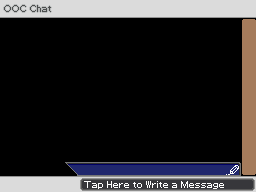
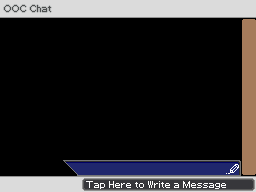
quality of life changes to corner button sprites

Changed region(s): [[0.25, 0.8125, 0.9375, 0.9062], [0.3125, 0.9062, 0.875, 1.0]]

diff --git a/arm9/source/ui/court/mute.cpp b/arm9/source/ui/court/mute.cpp
@@ -20,10 +20,10 @@ struct charMuteBtnData
 
 UICourtMute::~UICourtMute()
 {
-	delete btn_pageLeft;
-	delete btn_pageRight;
 	delete btn_back;
 	delete btn_muteToggle;
+	delete btn_pageLeft;
+	delete btn_pageRight;
 	delete lbl_charname;
 	delete lbl_pages;
 	delete sel_btn;
@@ -43,10 +43,10 @@ void UICourtMute::init()
 	bgIndex = bgInitSub(0, BgType_Text8bpp, BgSize_T_256x256, 0, 1);
 	loadBg("/data/ao-nds/ui/bg_charSelect");
 
+	btn_back = new UIButton(&oamSub, "/data/ao-nds/ui/spr_back", btn_pageRight->nextOamInd(), 3, 1, SpriteSize_32x32, 0, 192-32, 80, 32, 32, 32, 2);
+	btn_muteToggle = new UIButton(&oamSub, "/data/ao-nds/ui/spr_muteToggle", btn_back->nextOamInd(), 3, 1, SpriteSize_32x32, 256-82, 192-32, 82, 32, 32, 32, 3);
 	btn_pageLeft = new UIButton(&oamSub, "/data/ao-nds/ui/spr_pageLeft_tall", 0, 1, 3, SpriteSize_16x32, 4, 55, 16, 95, 16, 32, 0);
 	btn_pageRight = new UIButton(&oamSub, "/data/ao-nds/ui/spr_pageRight_tall", btn_pageLeft->nextOamInd(), 1, 3, SpriteSize_16x32, 236, 55, 16, 95, 16, 32, 1);
-	btn_back = new UIButton(&oamSub, "/data/ao-nds/ui/spr_back", btn_pageRight->nextOamInd(), 3, 1, SpriteSize_32x32, 0, 192-30, 79, 30, 32, 32, 2);
-	btn_muteToggle = new UIButton(&oamSub, "/data/ao-nds/ui/spr_muteToggle", btn_back->nextOamInd(), 3, 1, SpriteSize_32x32, 256-79, 192-30, 79, 30, 32, 32, 3);
 
 	lbl_charname = new UILabel(&oamSub, btn_muteToggle->nextOamInd(), 6, 1, RGB15(31, 16, 0), 4, 0);
 	lbl_pages = new UILabel(&oamSub, lbl_charname->nextOamInd(), 1, 1, RGB15(13, 2, 0), 5, 0);
@@ -76,13 +76,13 @@ void UICourtMute::init()
 	btn_pageLeft->assignKey(KEY_LEFT);
 	btn_pageRight->assignKey(KEY_RIGHT);
 
+	btn_back->connect(onBackClicked, this);
+	btn_muteToggle->connect(onMuteToggled, this);
 	btn_pageLeft->setVisible(false);
 	btn_pageLeft->connect(onPrevPage, this, UIButton::PRESSED);
 	btn_pageRight->connect(onNextPage, this, UIButton::PRESSED);
 	btn_pageLeft->connect(onPageBtnRelease, this, UIButton::RELEASED);
 	btn_pageRight->connect(onPageBtnRelease, this, UIButton::RELEASED);
-	btn_back->connect(onBackClicked, this);
-	btn_muteToggle->connect(onMuteToggled, this);
 
 	updateFilter();
 	reloadPage();
@@ -131,10 +131,10 @@ void UICourtMute::updateInput()
 		return;
 	}
 
-	btn_pageLeft->updateInput();
-	btn_pageRight->updateInput();
 	btn_back->updateInput();
 	btn_muteToggle->updateInput();
+	btn_pageLeft->updateInput();
+	btn_pageRight->updateInput();
 	for (int i=0; i<8; i++) btn_chars[i]->updateInput();
 
 	if (keysDown() & KEY_TOUCH)
@@ -148,10 +148,10 @@ void UICourtMute::updateInput()
 
 			bgHide(bgIndex);
 
-			btn_pageLeft->setVisible(false);
-			btn_pageRight->setVisible(false);
 			btn_back->setVisible(false);
 			btn_muteToggle->setVisible(false);
+			btn_pageLeft->setVisible(false);
+			btn_pageRight->setVisible(false);
 			lbl_charname->setVisible(false);
 			lbl_pages->setVisible(false);
 			sel_btn->setVisible(false);

diff --git a/arm9/source/ui/uiserverlist.cpp b/arm9/source/ui/uiserverlist.cpp
@@ -119,12 +119,12 @@ void UIScreenServerList::init()
 	lbl_players->setVisible(false);
 	lbl_playercount->setVisible(false);
 
-	btn_manageFav = new UIButton(&oamSub, "/data/ao-nds/ui/spr_addFav", 2, 3, 1, SpriteSize_32x64, 0, 0, 80, 33, 32, 64, 1);
-	btn_listToggle = new UIButton(&oamSub, "/data/ao-nds/ui/spr_favoritesPublic", btn_manageFav->nextOamInd(), 3, 1, SpriteSize_32x64, 256-80, 0, 80, 33, 32, 64, 2);
-	btn_back = new UIButton(&oamSub, "/data/ao-nds/ui/spr_back", btn_listToggle->nextOamInd(), 3, 1, SpriteSize_32x32, 0, 192-30, 79, 30, 32, 32, 3);
-	btn_connect = new UIButton(&oamSub, "/data/ao-nds/ui/spr_connect", btn_back->nextOamInd(), 3, 1, SpriteSize_32x32, 256-79, 192-30, 79, 30, 32, 32, 4);
-	btn_prevPage = new UIButton(&oamSub, "/data/ao-nds/ui/spr_pageLeft", btn_connect->nextOamInd(), 1, 1, SpriteSize_32x16, 79+2, 192-15, 19, 14, 32, 16, 5);
-	btn_nextPage = new UIButton(&oamSub, "/data/ao-nds/ui/spr_pageRight", btn_prevPage->nextOamInd(), 1, 1, SpriteSize_32x16, 256-79-19-2, 192-15, 19, 14, 32, 16, 6);
+	btn_manageFav = new UIButton(&oamSub, "/data/ao-nds/ui/spr_addFav", 2, 3, 1, SpriteSize_32x32, 0, 0, 80, 32, 32, 32, 1);
+	btn_listToggle = new UIButton(&oamSub, "/data/ao-nds/ui/spr_favoritesPublic", btn_manageFav->nextOamInd(), 3, 1, SpriteSize_32x32, 256-80, 0, 80, 32, 32, 32, 2);
+	btn_back = new UIButton(&oamSub, "/data/ao-nds/ui/spr_back", btn_listToggle->nextOamInd(), 3, 1, SpriteSize_32x32, 0, 192-32, 80, 30, 32, 32, 3);
+	btn_connect = new UIButton(&oamSub, "/data/ao-nds/ui/spr_connect", btn_back->nextOamInd(), 3, 1, SpriteSize_32x32, 256-82, 192-32, 82, 30, 32, 32, 4);
+	btn_prevPage = new UIButton(&oamSub, "/data/ao-nds/ui/spr_pageLeft", btn_connect->nextOamInd(), 1, 1, SpriteSize_32x16, 80+2, 192-15, 19, 14, 32, 16, 5);
+	btn_nextPage = new UIButton(&oamSub, "/data/ao-nds/ui/spr_pageRight", btn_prevPage->nextOamInd(), 1, 1, SpriteSize_32x16, 256-80-19-2, 192-15, 19, 14, 32, 16, 6);
 	for (int i=0; i<4; i++)
 	{
 		int nextOam = (i == 0) ? btn_nextPage->nextOamInd() : lbl_server[i-1]->nextOamInd();
@@ -340,12 +340,12 @@ void UIScreenServerList::onToggleList(void* pUserData)
 	pSelf->isFavorites = -pSelf->isFavorites+1;
 	if (pSelf->isFavorites)
 	{
-		pSelf->btn_manageFav->setImage("/data/ao-nds/ui/spr_delete", 32, 64, 1);
+		pSelf->btn_manageFav->setImage("/data/ao-nds/ui/spr_delete", 32, 32, 1);
 		pSelf->btn_listToggle->setFrame(1);
 	}
 	else
 	{
-		pSelf->btn_manageFav->setImage("/data/ao-nds/ui/spr_addFav", 32, 64, 1);
+		pSelf->btn_manageFav->setImage("/data/ao-nds/ui/spr_addFav", 32, 32, 1);
 		pSelf->btn_listToggle->setFrame(0);
 	}
 

diff --git a/arm9/source/ui/court/courtrecord.cpp b/arm9/source/ui/court/courtrecord.cpp
@@ -64,10 +64,10 @@ void UICourtEvidence::init()
 	dmaCopy(bg_evidenceMap, bgGetMapPtr(bgIndex), 1536);
 	dmaCopy(bg_evidencePal, BG_PALETTE_SUB, 512);
 
+	btn_back = new UIButton(&oamSub, "/data/ao-nds/ui/spr_back", btn_pageRight->nextOamInd(), 3, 1, SpriteSize_32x32, 0, 192-32, 80, 32, 32, 32, 2);
+	btn_present = new UIButton(&oamSub, "/data/ao-nds/ui/spr_present", btn_back->nextOamInd(), 3, 1, SpriteSize_32x32, 128-(85/2), 0, 85, 32, 32, 32, 3);
 	btn_pageLeft = new UIButton(&oamSub, "/data/ao-nds/ui/spr_pageLeft_tall", 0, 1, 3, SpriteSize_16x32, 4, 55, 16, 95, 16, 32, 0);
 	btn_pageRight = new UIButton(&oamSub, "/data/ao-nds/ui/spr_pageRight_tall", btn_pageLeft->nextOamInd(), 1, 3, SpriteSize_16x32, 236, 55, 16, 95, 16, 32, 1);
-	btn_back = new UIButton(&oamSub, "/data/ao-nds/ui/spr_back", btn_pageRight->nextOamInd(), 3, 1, SpriteSize_32x32, 0, 192-30, 79, 30, 32, 32, 2);
-	btn_present = new UIButton(&oamSub, "/data/ao-nds/ui/spr_present", btn_back->nextOamInd(), 3, 1, SpriteSize_32x64, 86, 0, 85, 33, 32, 64, 3);
 	btn_privatePublic = new UIButton(&oamSub, "/data/ao-nds/ui/spr_privatePublic2", btn_present->nextOamInd(), 2, 1, SpriteSize_32x16, 128-(64/2), btn_back->getY()-2, 64, 15, 32, 16, 4);
 	btn_profilesEvidence = new UIButton(&oamSub, "/data/ao-nds/ui/spr_profilesEvidence", btn_privatePublic->nextOamInd(), 1, 1, SpriteSize_64x32, 256-55, 0, 55, 31, 64, 32, 5);
 
@@ -92,16 +92,16 @@ void UICourtEvidence::init()
 	if (pCourtUI->icControls.evidence > -1)
 		btn_present->setFrame(1);
 
-	btn_pageLeft->assignKey(KEY_LEFT);
-	btn_pageRight->assignKey(KEY_RIGHT);
 	btn_back->assignKey(KEY_B);
 	btn_present->assignKey(KEY_X);
+	btn_pageLeft->assignKey(KEY_LEFT);
+	btn_pageRight->assignKey(KEY_RIGHT);
 	btn_profilesEvidence->assignKey(KEY_R);
 
-	btn_pageLeft->connect(onPrevPage, this);
-	btn_pageRight->connect(onNextPage, this);
 	btn_back->connect(onBackClicked, this);
 	btn_present->connect(onPresentClicked, this);
+	btn_pageLeft->connect(onPrevPage, this);
+	btn_pageRight->connect(onNextPage, this);
 	btn_privatePublic->connect(onPrivatePublicClicked, this);
 	btn_profilesEvidence->connect(onProfilesEvidenceClicked, this);
 
@@ -113,10 +113,10 @@ void UICourtEvidence::init()
 
 void UICourtEvidence::updateInput()
 {
-	btn_pageLeft->updateInput();
-	btn_pageRight->updateInput();
 	btn_back->updateInput();
 	btn_present->updateInput();
+	btn_pageLeft->updateInput();
+	btn_pageRight->updateInput();
 	btn_privatePublic->updateInput();
 	btn_profilesEvidence->updateInput();
 	for (int i=0; i<8; i++) btn_evidence[i]->updateInput();

diff --git a/arm9/source/ui/court/oocpresets.cpp b/arm9/source/ui/court/oocpresets.cpp
@@ -41,12 +41,12 @@ void UICourtOOCPresets::init()
 	bgSetPriority(bgIndex, 1);
 	loadBg("/data/ao-nds/ui/bg_oocPresets");
 
-	btn_back = new UIButton(&oamSub, "/data/ao-nds/ui/spr_back", 0, 3, 1, SpriteSize_32x32, 0, 192-30, 79, 30, 32, 32, 0);
-	btn_addOrConfirm = new UIButton(&oamSub, "/data/ao-nds/ui/spr_addConfirm", btn_back->nextOamInd(), 3, 1, SpriteSize_32x32, 256-79, 192-30, 79, 30, 32, 32, 1);
-	btn_delete = new UIButton(&oamSub, "/data/ao-nds/ui/spr_delete", btn_addOrConfirm->nextOamInd(), 3, 1, SpriteSize_32x64, 0, 0, 80, 33, 32, 64, 2);
-	btn_edit = new UIButton(&oamSub, "/data/ao-nds/ui/spr_edit", btn_delete->nextOamInd(), 3, 1, SpriteSize_32x64, 256-80, 0, 80, 33, 32, 64, 3);
-	btn_prevPage = new UIButton(&oamSub, "/data/ao-nds/ui/spr_pageLeft", btn_edit->nextOamInd(), 1, 1, SpriteSize_32x16, 79+2, 192-15, 19, 14, 32, 16, 4);
-	btn_nextPage = new UIButton(&oamSub, "/data/ao-nds/ui/spr_pageRight", btn_prevPage->nextOamInd(), 1, 1, SpriteSize_32x16, 256-79-19-2, 192-15, 19, 14, 32, 16, 5);
+	btn_back = new UIButton(&oamSub, "/data/ao-nds/ui/spr_back", 0, 3, 1, SpriteSize_32x32, 0, 192-32, 80, 32, 32, 32, 0);
+	btn_addOrConfirm = new UIButton(&oamSub, "/data/ao-nds/ui/spr_addConfirm", btn_back->nextOamInd(), 3, 1, SpriteSize_32x32, 256-82, 192-32, 82, 32, 32, 32, 1);
+	btn_delete = new UIButton(&oamSub, "/data/ao-nds/ui/spr_delete", btn_addOrConfirm->nextOamInd(), 3, 1, SpriteSize_32x32, 0, 0, 80, 32, 32, 32, 2);
+	btn_edit = new UIButton(&oamSub, "/data/ao-nds/ui/spr_edit", btn_delete->nextOamInd(), 3, 1, SpriteSize_32x32, 256-80, 0, 80, 32, 32, 32, 3);
+	btn_prevPage = new UIButton(&oamSub, "/data/ao-nds/ui/spr_pageLeft", btn_edit->nextOamInd(), 1, 1, SpriteSize_32x16, 80+2, 192-15, 19, 14, 32, 16, 4);
+	btn_nextPage = new UIButton(&oamSub, "/data/ao-nds/ui/spr_pageRight", btn_prevPage->nextOamInd(), 1, 1, SpriteSize_32x16, 256-80-19-2, 192-15, 19, 14, 32, 16, 5);
 	for (int i=0; i<4; i++)
 	{
 		int nextOam = (i == 0) ? btn_nextPage->nextOamInd() : lbl_preset[i-1]->nextOamInd();

diff --git a/arm9/source/ui/court/ooc.cpp b/arm9/source/ui/court/ooc.cpp
@@ -33,7 +33,7 @@ void UICourtOOC::init()
 	bgIndex = bgInitSub(0, BgType_Text8bpp, BgSize_T_256x256, 0, 1);
 	loadBg("/data/ao-nds/ui/bg_ooc");
 
-	btn_back = new UIButton(&oamSub, "/data/ao-nds/ui/spr_back", 0, 3, 1, SpriteSize_32x32, 0, 192-30, 79, 30, 32, 32, 0);
+	btn_back = new UIButton(&oamSub, "/data/ao-nds/ui/spr_back", 0, 3, 1, SpriteSize_32x32, 0, 192-32, 80, 32, 32, 32, 0);
 	btn_presets = new UIButton(&oamSub, "/data/ao-nds/ui/spr_presets", btn_back->nextOamInd(), 2, 1, SpriteSize_32x16, 256-59-1, 1, 59, 15, 32, 16, 1);
 	btn_scrollUp = new UIButton(&oamSub, "/data/ao-nds/ui/spr_scrollUp", btn_presets->nextOamInd(), 1, 1, SpriteSize_16x32, 242, 19, 14, 19, 16, 32, 2);
 	btn_scrollDown = new UIButton(&oamSub, "/data/ao-nds/ui/spr_scrollDown", btn_scrollUp->nextOamInd(), 1, 1, SpriteSize_16x32, 242, 156, 14, 19, 16, 32, 3);
@@ -46,7 +46,7 @@ void UICourtOOC::init()
 	isWritingChat = false;
 
 	lbl_log->setPos(9, 17);
-	lbl_oocName->setPos(80, 163);
+	lbl_oocName->setPos(81, 162);
 	lbl_oocName->setText((pCourtUI->oocName.empty()) ? u"Enter an OOC name..." : pCourtUI->oocName);
 
 	btn_back->assignKey(KEY_B);
@@ -112,16 +112,16 @@ void UICourtOOC::updateInput()
 		if (pos.px >= 79 && pos.py >= 162 && pos.px < 79+162 && pos.py < 162+14)
 		{
 			// ooc name input
-			wav_play(pCourtUI->sndSelect);
+			wav_play(pCourtUI->sndCrtRcrd);
 
 			hideEverything();
 			isWritingChat = false;
 			kb_input->show16("Enter your OOC name", pCourtUI->oocName);
 		}
-		else if (pos.px >= 79 && pos.py >= 177 && pos.px < 79+177 && pos.py < 177+15)
+		else if (pos.px >= 81 && pos.py >= 177 && pos.px < 81+177 && pos.py < 177+15)
 		{
 			// chat message input
-			wav_play(pCourtUI->sndSelect);
+			wav_play(pCourtUI->sndCrtRcrd);
 
 			hideEverything();
 			isWritingChat = true;

diff --git a/arm9/source/ui/court/arealist.cpp b/arm9/source/ui/court/arealist.cpp
@@ -51,11 +51,11 @@ void UICourtAreaList::init()
 	loadBg("/data/ao-nds/ui/bg_areas", true);
 
 	static areaBtnData btnData[4];
-	btn_back = new UIButton(&oamSub, "/data/ao-nds/ui/spr_back", 0, 3, 1, SpriteSize_32x32, 0, 192-30, 79, 30, 32, 32, 0);
-	btn_listToggle = new UIButton(&oamSub, "/data/ao-nds/ui/spr_music", btn_back->nextOamInd(), 3, 1, SpriteSize_32x32, 256-79, 0, 79, 30, 32, 32, 1);
-	btn_confirm = new UIButton(&oamSub, "/data/ao-nds/ui/spr_confirm", btn_listToggle->nextOamInd(), 3, 1, SpriteSize_32x32, 256-79, 192-30, 79, 30, 32, 32, 2);
-	btn_prevPage = new UIButton(&oamSub, "/data/ao-nds/ui/spr_pageLeft", btn_confirm->nextOamInd(), 1, 1, SpriteSize_32x16, 79+2, 192-15, 19, 14, 32, 16, 4);
-	btn_nextPage = new UIButton(&oamSub, "/data/ao-nds/ui/spr_pageRight", btn_prevPage->nextOamInd(), 1, 1, SpriteSize_32x16, 256-79-19-2, 192-15, 19, 14, 32, 16, 5);
+	btn_back = new UIButton(&oamSub, "/data/ao-nds/ui/spr_back", 0, 3, 1, SpriteSize_32x32, 0, 192-32, 80, 32, 32, 32, 0);
+	btn_listToggle = new UIButton(&oamSub, "/data/ao-nds/ui/spr_music", btn_back->nextOamInd(), 3, 1, SpriteSize_32x32, 256-80, 0, 80, 32, 32, 32, 1);
+	btn_confirm = new UIButton(&oamSub, "/data/ao-nds/ui/spr_confirm", btn_listToggle->nextOamInd(), 3, 1, SpriteSize_32x32, 256-82, 192-32, 82, 32, 32, 32, 2);
+	btn_prevPage = new UIButton(&oamSub, "/data/ao-nds/ui/spr_pageLeft", btn_confirm->nextOamInd(), 1, 1, SpriteSize_32x16, 80+2, 192-15, 19, 14, 32, 16, 4);
+	btn_nextPage = new UIButton(&oamSub, "/data/ao-nds/ui/spr_pageRight", btn_prevPage->nextOamInd(), 1, 1, SpriteSize_32x16, 256-80-19-2, 192-15, 19, 14, 32, 16, 5);
 	for (int i=0; i<4; i++)
 	{
 		int nextOam = (i == 0) ? btn_nextPage->nextOamInd() : lbl_area[i-1]->nextOamInd();

diff --git a/arm9/source/ui/court/evidencedetail.cpp b/arm9/source/ui/court/evidencedetail.cpp
@@ -40,10 +40,10 @@ void UICourtEvidenceDetail::init()
 	bgIndex = bgInitSub(0, BgType_Text8bpp, BgSize_T_256x256, 0, 1);
 	loadBg("/data/ao-nds/ui/bg_evidenceDetails");
 
-	btn_back = new UIButton(&oamSub, "/data/ao-nds/ui/spr_back", 0, 3, 1, SpriteSize_32x32, 0, 192-30, 79, 30, 32, 32, 0);
+	btn_back = new UIButton(&oamSub, "/data/ao-nds/ui/spr_back", 0, 3, 1, SpriteSize_32x32, 0, 192-32, 80, 32, 32, 32, 0);
 	btn_privatePublic = new UIButton(&oamSub, "/data/ao-nds/ui/spr_privatePublic2", btn_back->nextOamInd(), 2, 1, SpriteSize_32x16, 128-(64/2), btn_back->getY()-2, 64, 15, 32, 16, 1);
 	btn_profilesEvidence = new UIButton(&oamSub, "/data/ao-nds/ui/spr_profilesEvidence", btn_privatePublic->nextOamInd(), 1, 1, SpriteSize_64x32, 256-55, 0, 55, 31, 64, 32, 2);
-	btn_topButton = new UIButton(&oamSub, (adding ? "/data/ao-nds/ui/spr_addTop" : "/data/ao-nds/ui/spr_present"), btn_profilesEvidence->nextOamInd(), 3, 1, SpriteSize_32x64, 86, 0, 85, 33, 32, 64, 3);
+	btn_topButton = new UIButton(&oamSub, (adding ? "/data/ao-nds/ui/spr_addTop" : "/data/ao-nds/ui/spr_present"), btn_profilesEvidence->nextOamInd(), 3, 1, SpriteSize_32x32, 128-(85/2), 0, 85, 32, 32, 32, 3);
 	btn_delete = new UIButton(&oamSub, "/data/ao-nds/ui/spr_deleteEvidence", btn_topButton->nextOamInd(), 1, 1, SpriteSize_32x32, 91, 84, 20, 20, 32, 32, 4);
 	btn_transfer = new UIButton(&oamSub, "/data/ao-nds/ui/spr_transferEvidence", btn_delete->nextOamInd(), 1, 1, SpriteSize_32x32, 215, 84, 20, 20, 32, 32, 5);
 	btn_descUp = new UIButton(&oamSub, "/data/ao-nds/ui/spr_scrollUp", btn_transfer->nextOamInd(), 1, 1, SpriteSize_16x32, 233, 115, 14, 19, 16, 32, 6);

diff --git a/arm9/source/ui/court/ic.cpp b/arm9/source/ui/court/ic.cpp
@@ -78,7 +78,7 @@ void UICourtIC::init()
 	dmaCopy(bg_icTiles, bgGetGfxPtr(bgIndex), bg_icTilesLen);
 	dmaCopy(bg_icMap, bgGetMapPtr(bgIndex), 1536);
 
-	btn_back = new UIButton(&oamSub, "/data/ao-nds/ui/spr_icCornerBtns", 0, 3, 1, SpriteSize_32x32, 0, 192-30, 79, 30, 32, 32, 0);
+	btn_back = new UIButton(&oamSub, "/data/ao-nds/ui/spr_icCornerBtns", 0, 3, 1, SpriteSize_32x32, 0, 192-32, 80, 32, 32, 32, 0);
 	btn_courtRecord = new UIButton(&oamSub, "/data/ao-nds/ui/spr_icCornerBtns", btn_back->nextOamInd(), 3, 1, SpriteSize_32x32, 256-80, 0, 80, 32, 32, 32, 0);
 	btn_shouts = new UIButton(&oamSub, "/data/ao-nds/ui/spr_icCornerBtns", btn_courtRecord->nextOamInd(), 3, 1, SpriteSize_32x32, 0, 0, 80, 32, 32, 32, 0);
 	btn_pair = new UIButton(&oamSub, "/data/ao-nds/ui/spr_pairMute", btn_shouts->nextOamInd(), 3, 1, SpriteSize_32x32, 36, 114, 68, 17, 32, 32, 1);
@@ -121,9 +121,9 @@ void UICourtIC::init()
 	lbl_showname = new UILabel(&oamSub, spr_arrowRight->nextOamInd(), 2, 1, RGB15(31,31,31), 14, 0);
 	lbl_color = new UILabel(&oamSub, lbl_showname->nextOamInd(), 2, 1, RGB15(31,31,31), 15, 0);
 	lbl_shout = new UILabel(&oamSub, lbl_color->nextOamInd(), 6, 1, RGB15(31,31,31), 14, 0);
-	lbl_showname->setPos(77, 163);
+	lbl_showname->setPos(80, 163);
 	lbl_showname->setText((pCourtUI->showname.empty()) ? utf8::utf8to16(pCourtUI->getCurrChar().name) : pCourtUI->showname);
-	lbl_color->setPos(84, 178);
+	lbl_color->setPos(86, 178);
 	lbl_color->setText("Message");
 	lbl_shout->setPos(btn_shouts->getX()+4, btn_shouts->getY()+btn_shouts->getH()-1, false);
 	lbl_shout->setVisible(false);

diff --git a/arm9/source/ui/court/pair.cpp b/arm9/source/ui/court/pair.cpp
@@ -32,9 +32,9 @@ void UICourtPair::init()
 	bgIndex = bgInitSub(0, BgType_Text8bpp, BgSize_T_256x256, 0, 1);
 	loadBg("/data/ao-nds/ui/bg_pair", true);
 
-	btn_back = new UIButton(&oamSub, "/data/ao-nds/ui/spr_back", 0, 3, 1, SpriteSize_32x32, 0, 192-30, 79, 30, 32, 32, 0);
+	btn_back = new UIButton(&oamSub, "/data/ao-nds/ui/spr_back", 0, 3, 1, SpriteSize_32x32, 0, 192-32, 80, 32, 32, 32, 0);
 	btn_disable = new UIButton(&oamSub, "/data/ao-nds/ui/spr_disable", btn_back->nextOamInd(), 1, 1, SpriteSize_64x32, 104, 170, 48, 21, 64, 32, 1);
-	btn_charSelect = new UIButton(&oamSub, "/data/ao-nds/ui/spr_charSelect", btn_disable->nextOamInd(), 3, 1, SpriteSize_32x32, 256-79, 192-30, 79, 30, 32, 32, 2);
+	btn_charSelect = new UIButton(&oamSub, "/data/ao-nds/ui/spr_charSelect", btn_disable->nextOamInd(), 3, 1, SpriteSize_32x32, 256-82, 192-32, 82, 32, 32, 32, 2);
 	btn_reset = new UIButton(&oamSub, "/data/ao-nds/ui/spr_reset", btn_charSelect->nextOamInd(), 2, 1, SpriteSize_32x16, 208, 0, 48, 16, 32, 16, 3);
 	btn_xSlider = new UIButton(&oamSub, "/data/ao-nds/ui/spr_sliderHandleHor", btn_reset->nextOamInd(), 1, 1, SpriteSize_32x16, 118, 142, 19, 14, 32, 16, 4);
 	btn_ySlider = new UIButton(&oamSub, "/data/ao-nds/ui/spr_sliderHandle", btn_xSlider->nextOamInd(), 1, 1, SpriteSize_16x32, 229, 66, 14, 19, 16, 32, 5);

diff --git a/arm9/source/ui/court/charselect.cpp b/arm9/source/ui/court/charselect.cpp
@@ -48,8 +48,8 @@ void UICourtCharSelect::init()
 
 	btn_pageLeft = new UIButton(&oamSub, "/data/ao-nds/ui/spr_pageLeft_tall", 0, 1, 3, SpriteSize_16x32, 4, 55, 16, 95, 16, 32, 0);
 	btn_pageRight = new UIButton(&oamSub, "/data/ao-nds/ui/spr_pageRight_tall", btn_pageLeft->nextOamInd(), 1, 3, SpriteSize_16x32, 236, 55, 16, 95, 16, 32, 1);
-	btn_disconnect = new UIButton(&oamSub, "/data/ao-nds/ui/spr_disconnect", btn_pageRight->nextOamInd(), 3, 1, SpriteSize_32x32, 0, 192-30, 79, 30, 32, 32, 2);
-	btn_confirm = new UIButton(&oamSub, "/data/ao-nds/ui/spr_confirm", btn_disconnect->nextOamInd(), 3, 1, SpriteSize_32x32, 256-79, 192-30, 79, 30, 32, 32, 3);
+	btn_disconnect = new UIButton(&oamSub, "/data/ao-nds/ui/spr_disconnect", btn_pageRight->nextOamInd(), 3, 1, SpriteSize_32x32, 0, 192-32, 80, 32, 32, 32, 2);
+	btn_confirm = new UIButton(&oamSub, "/data/ao-nds/ui/spr_confirm", btn_disconnect->nextOamInd(), 3, 1, SpriteSize_32x32, 256-82, 192-32, 82, 32, 32, 32, 3);
 
 	lbl_charname = new UILabel(&oamSub, btn_confirm->nextOamInd(), 6, 1, RGB15(31, 16, 0), 4, 0);
 	lbl_pages = new UILabel(&oamSub, lbl_charname->nextOamInd(), 1, 1, RGB15(13, 2, 0), 5, 0);

diff --git a/arm9/source/ui/court/musiclist.cpp b/arm9/source/ui/court/musiclist.cpp
@@ -44,9 +44,9 @@ void UICourtMusicList::init()
 	loadBg("/data/ao-nds/ui/bg_musicList");
 
 	static musicBtnData btnData[7];
-	btn_back = new UIButton(&oamSub, "/data/ao-nds/ui/spr_back", 0, 3, 1, SpriteSize_32x32, 0, 192-30, 79, 30, 32, 32, 0);
-	btn_listToggle = new UIButton(&oamSub, "/data/ao-nds/ui/spr_areas", btn_back->nextOamInd(), 3, 1, SpriteSize_32x32, 256-79, 0, 79, 30, 32, 32, 1);
-	btn_scrollUp = new UIButton(&oamSub, "/data/ao-nds/ui/spr_scrollUp", btn_listToggle->nextOamInd(), 1, 1, SpriteSize_16x32, 242, 31, 14, 19, 16, 32, 2);
+	btn_back = new UIButton(&oamSub, "/data/ao-nds/ui/spr_back", 0, 3, 1, SpriteSize_32x32, 0, 192-32, 80, 32, 32, 32, 0);
+	btn_listToggle = new UIButton(&oamSub, "/data/ao-nds/ui/spr_areas", btn_back->nextOamInd(), 3, 1, SpriteSize_32x32, 256-80, 0, 80, 32, 32, 32, 1);
+	btn_scrollUp = new UIButton(&oamSub, "/data/ao-nds/ui/spr_scrollUp", btn_listToggle->nextOamInd(), 1, 1, SpriteSize_16x32, 242, 33, 14, 19, 16, 32, 2);
 	btn_scrollDown = new UIButton(&oamSub, "/data/ao-nds/ui/spr_scrollDown", btn_scrollUp->nextOamInd(), 1, 1, SpriteSize_16x32, 242, 156, 14, 19, 16, 32, 3);
 	for (int i=0; i<7; i++)
 	{

diff --git a/arm9/source/ui/court/pairselect.cpp b/arm9/source/ui/court/pairselect.cpp
@@ -45,8 +45,8 @@ void UICourtPairSelect::init()
 
 	btn_pageLeft = new UIButton(&oamSub, "/data/ao-nds/ui/spr_pageLeft_tall", 0, 1, 3, SpriteSize_16x32, 4, 55, 16, 95, 16, 32, 0);
 	btn_pageRight = new UIButton(&oamSub, "/data/ao-nds/ui/spr_pageRight_tall", btn_pageLeft->nextOamInd(), 1, 3, SpriteSize_16x32, 236, 55, 16, 95, 16, 32, 1);
-	btn_back = new UIButton(&oamSub, "/data/ao-nds/ui/spr_back", btn_pageRight->nextOamInd(), 3, 1, SpriteSize_32x32, 0, 192-30, 79, 30, 32, 32, 2);
-	btn_pair = new UIButton(&oamSub, "/data/ao-nds/ui/spr_pairConfirm", btn_back->nextOamInd(), 3, 1, SpriteSize_32x32, 256-79, 192-30, 79, 30, 32, 32, 3);
+	btn_back = new UIButton(&oamSub, "/data/ao-nds/ui/spr_back", btn_pageRight->nextOamInd(), 3, 1, SpriteSize_32x32, 0, 192-32, 80, 32, 32, 32, 2);
+	btn_pair = new UIButton(&oamSub, "/data/ao-nds/ui/spr_pairConfirm", btn_back->nextOamInd(), 3, 1, SpriteSize_32x32, 256-82, 192-32, 82, 32, 32, 32, 3);
 
 	lbl_charname = new UILabel(&oamSub, btn_pair->nextOamInd(), 6, 1, RGB15(31, 16, 0), 4, 0);
 	lbl_pages = new UILabel(&oamSub, lbl_charname->nextOamInd(), 1, 1, RGB15(13, 2, 0), 5, 0);
